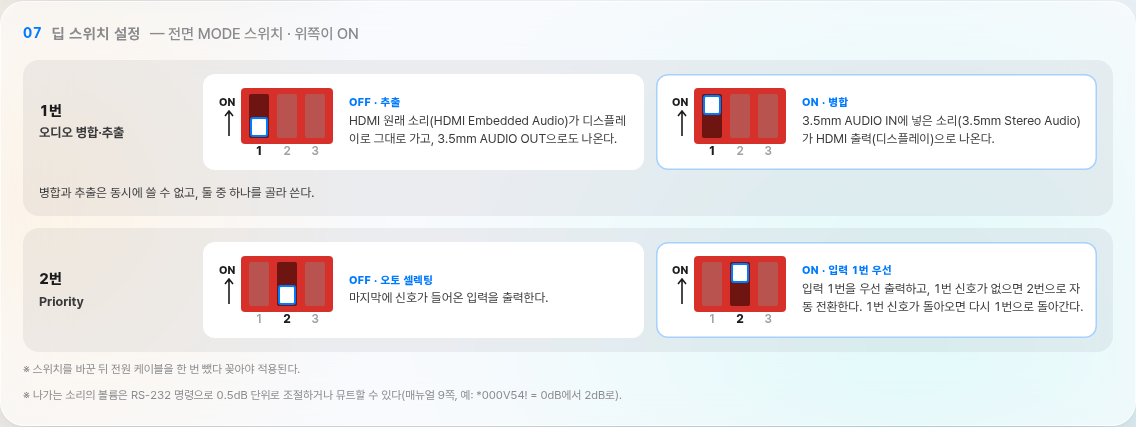
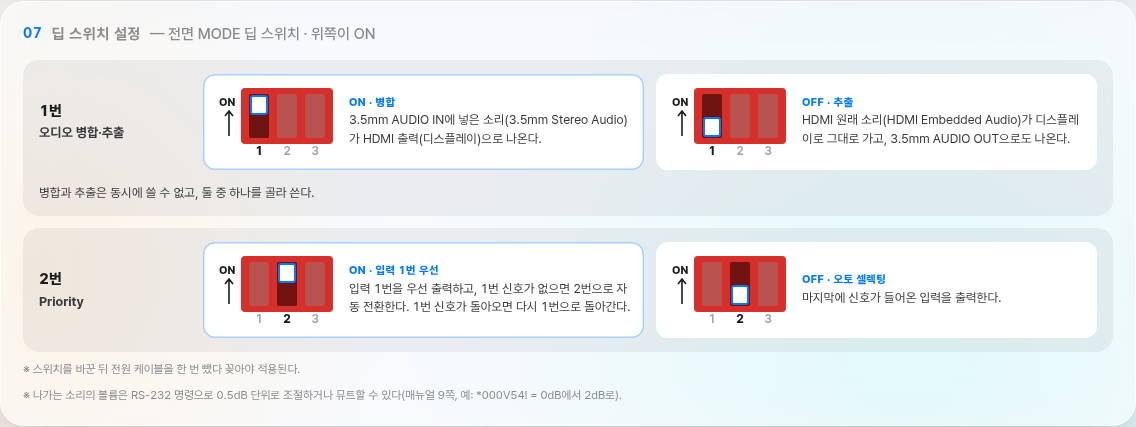
feat: HD-210U·HD-13U 05 주요 기능 압축 정리, HDS 딥 스위치 칸 ON → OFF 순서 (0.62.0)
- HD-210U 5줄·HD-13U 3줄로 기능 이름만 남김(상세는 06·07 카드)
- dipSwitch.order 추가, HDS-21U·HDS-42MU는 ON 칸을 왼쪽에
- validator·e2e(칸 순서 3건) 추가, 0.62.0 버전 표기·CHANGELOG·CLAUDE.md·QA 기록

Claude-Session: https://claude.ai/code/session_01V3dms2CC6NHWtyRSKKrJnV

diff --git a/index.html b/index.html
@@ -1,7 +1,7 @@
 <!doctype html>
 <html lang="ko"><head><meta charset="utf-8"><meta name="viewport" content="width=device-width,initial-scale=1"><title>RTCOM 매트릭스 구성기</title><meta name="description" content="RTCOM XDM, SPX, VDM 매트릭스 카드 슬롯 구성기와 알티컴 공개 제품정보"></head><body><div id="rtcom-design" aria-label="RTCOM 매트릭스 구성기">
   <link rel="stylesheet" href="src/styles.css">
-  <header class="rt-top"><a class="rt-brand-lockup" href="./"><span class="rt-brand-mark" aria-hidden="true">▦</span><span><span class="rt-brand">RT<span>COM</span> Matrix Configurator</span><span class="rt-brand-sub">XDM · SPX · VDM CARD SLOT DESIGN</span></span></a><nav class="rt-view-tabs" aria-label="화면 전환"><a data-view-tab="configurator" href="#matrix-configurator" aria-current="page">매트릭스 구성기</a><a data-view-tab="products" href="#products">알티컴 제품정보</a></nav><div class="rt-top-links"><a class="rt-portal-link" href="https://seoulav.github.io/AV-Portal/" target="_blank" rel="noopener">AV Portal에서 제품 찾기 <span aria-hidden="true">↗</span><span class="rt-visually-hidden">(새 창)</span></a><div class="rt-meta"><b>AV 시스템 설계 도구</b><br>CATALOG BASED · 0.61</div></div></header>
+  <header class="rt-top"><a class="rt-brand-lockup" href="./"><span class="rt-brand-mark" aria-hidden="true">▦</span><span><span class="rt-brand">RT<span>COM</span> Matrix Configurator</span><span class="rt-brand-sub">XDM · SPX · VDM CARD SLOT DESIGN</span></span></a><nav class="rt-view-tabs" aria-label="화면 전환"><a data-view-tab="configurator" href="#matrix-configurator" aria-current="page">매트릭스 구성기</a><a data-view-tab="products" href="#products">알티컴 제품정보</a></nav><div class="rt-top-links"><a class="rt-portal-link" href="https://seoulav.github.io/AV-Portal/" target="_blank" rel="noopener">AV Portal에서 제품 찾기 <span aria-hidden="true">↗</span><span class="rt-visually-hidden">(새 창)</span></a><div class="rt-meta"><b>AV 시스템 설계 도구</b><br>CATALOG BASED · 0.62</div></div></header>
   <section class="rt-configurator-view" aria-label="매트릭스 구성기">
     <div id="matrix-configurator" class="rt-configurator-anchor"><h1 class="rt-visually-hidden" tabindex="-1">매트릭스 구성기 — 프레임을 선택하고 실제 슬롯 위치에 입력·출력 카드를 장착해 구성합니다.</h1></div>
     <div class="rt-workspace"><div class="rt-tools"><button class="rt-button" data-tool="undo" disabled>↶ 실행 취소</button><button class="rt-button" data-tool="redo" disabled>↷ 다시 실행</button><button class="rt-button" data-tool="backup">JSON 백업</button><button class="rt-button" data-tool="import">불러오기</button><button class="rt-button" data-tool="reset">새 구성</button></div><p id="save-status" role="status" aria-live="polite">이 브라우저에 자동 저장됩니다.</p><input id="import-file" type="file" accept=".json,application/json" hidden></div><nav class="rt-nav" aria-label="구성 단계"></nav>

diff --git a/src/products.js b/src/products.js
@@ -594,12 +594,13 @@
       }
       return `<svg viewBox="0 0 ${W} ${H}" width="${W}" height="${H}" role="img" aria-label="딥 스위치 ${target}번 ${on?'ON':'OFF'}">${body}</svg>`;
     }
+    // dipSwitch.order: ["on","off"]이면 ON 칸을 왼쪽에 둔다(HDS-21U·HDS-42MU, 사용자 요청 2026-09-27 "딥스위치 값 서로 좌우 위치 변경해줘"). 없으면 OFF → ON.
     function dipSwitchSection(item){
       const ds=item.dipSwitch;
       if(!ds||!ds.rows?.length)return '';
       const idx=String(6+(item.videoModes?1:0)+(item.edidSwitch?.table?.length?1:0)+(item.audioMux?.modes?.length?1:0)).padStart(2,'0');
       const state=(label,on,st,n)=>`<figure class="rt-pg-dip-state${on?' is-on':''}">${dipGraphic(ds.count,n,on,ds.onUp!==false)}<figcaption><em>${label}${st.name?` · ${esc(st.name)}`:''}</em>${esc(st.text)}</figcaption></figure>`;
-      const rows=ds.rows.map(row=>`<div class="rt-pg-dip-row"><div class="rt-pg-dip-head"><b>${row.n}번</b><span>${esc(row.title)}</span></div><div class="rt-pg-dip-states">${state('OFF',false,row.off,row.n)}${state('ON',true,row.on,row.n)}</div>${row.note?`<p class="rt-pg-dip-note">${esc(row.note)}</p>`:''}</div>`).join('');
+      const rows=ds.rows.map(row=>`<div class="rt-pg-dip-row"><div class="rt-pg-dip-head"><b>${row.n}번</b><span>${esc(row.title)}</span></div><div class="rt-pg-dip-states">${(ds.order?.[0]==='on'?[['ON',true,row.on],['OFF',false,row.off]]:[['OFF',false,row.off],['ON',true,row.on]]).map(([label,on,st])=>state(label,on,st,row.n)).join('')}</div>${row.note?`<p class="rt-pg-dip-note">${esc(row.note)}</p>`:''}</div>`).join('');
       return `<section class="rt-pg-card rt-pg-dip" style="margin-top:18px"><h2><span class="rt-pg-idx">${idx}</span>딥 스위치 설정 <span class="rt-pg-note">— 전면 ${esc(ds.label||'딥 스위치')} · ${ds.onUp!==false?'위쪽':'아래쪽'}이 ON</span></h2><div class="rt-pg-dip-rows">${rows}</div>${ds.apply?`<p class="rt-pg-hint">※ ${esc(ds.apply)}</p>`:''}${ds.note?`<p class="rt-pg-hint">※ ${esc(ds.note)}</p>`:''}</section>`;
     }
     // ---- 오디오 설정(병합 MUX·추출 DEMUX 중 선택, HD-13U). 매뉴얼 문장을 "이럴 때·연결·소리가 나오는 곳·확인 방법"으로 풀어 두 칸으로 보여준다 ----

diff --git a/CLAUDE.md b/CLAUDE.md
@@ -50,7 +50,7 @@
 
 - 현재 화면 버전은 `index.html`의 우측 상단 표기와 `README.md`에 함께 기록합니다.
 - 원본 `main`에 기능 묶음을 병합할 때 마이너 버전을 올리고, 같은 커밋에서 `CHANGELOG.md`를 갱신합니다.
-- 구성기 단일 화면 전환은 `0.7.0`, Analog Way 방식 화면 개편은 `0.8.0`, 전송기 자동 연동은 `0.9.0`, HDMI 카드 PSE 쌍 연장은 `0.10.0`, SPX 매뉴얼 사진 슬롯은 `0.11.0`, VDM-256X 추가는 `0.12.0`, VDM 매뉴얼 후면 도면 슬롯은 `0.13.0`, 휴대폰 슬롯 겹침·뒤로가기 수정은 `0.14.0`, VDM 전면 도면은 `0.15.0`, 사진 슬롯 판넬 잘림 수정은 `0.16.0`, 장착 슬롯 번호표 숨김·구성 요약 카드 확대는 `0.17.0`, XDM 판넬 손나사 잘림 수정·VDM 전송기 연동·로고 홈 이동 확인은 `0.18.0`, 알티컴 공개 제품정보(29종) 재게시는 `0.19.0`, 제품정보 상세 표기를 에이앤미디어(antez.co.kr) 방식으로 정리한 것은 `0.20.0`, 데이터 기반 연결 다이어그램 추가는 `0.21.0`, 제품 사양 표를 구분·사양 2단으로 정리한 것은 `0.22.0`, 휴대폰 가로 스크롤(긴 출처 경로) 수정은 `0.23.0`, HD-14U·HD-18U 모델명 정정과 VDM CT102-U·FT102-U 계열 제외는 `0.24.0`, 제조사 카탈로그 원본 연결 다이어그램 적용은 `0.25.0`, 제품 사양 표 디자인(분류 색 점) 다듬기는 `0.26.0`, 새 카탈로그로 나머지 25종 재검증·XDM-CTR100 조합 다이어그램은 `0.27.0`, 연결 다이어그램 가로 스크롤 안내(그러데이션 표시)와 XDM-CTR100 케이블별 최대 전송거리(CI6522 80m) 추가는 `0.28.0`, VDM HOS4-U·HOS4S-UW 카드 설명을 스위칭 방식(일반·심리스)으로 정리하고 XDM-288을 구성기에서 삭제한 것은 `0.29.0`, XDM-CTR100 연결 다이어그램 조합 1을 매트릭스 카드 직결 배선으로 바로잡고 제조사 원본 다이어그램에 출처 캡션·표기 다름 경고를 추가하고 6개 제품과 SPX 다이어그램을 다시 잘라낸 것은 `0.30.0`, VDM 전송기 4종(CT101-U/CR101-U·CT103-U-H/CR103-U·FT101-U/FR101-U·FT103-U-H/FR103-U)에 RS-232 단자 행을 추가하고 이 4종과 CT104-U/CR104-U를 46쪽판과 재대조하고 27종 전체의 카탈로그 쪽 표기를 46쪽판 기준으로 통일한 것은 `0.31.0`, `docs/audit/PRODUCT_DIAGRAM_REVIEW_2026-09-27.md` §6 판단표대로 13개 제품의 검토 필요 항목을 정리해 REVIEW REQUIRED 배지를 없앤 것은 `0.32.0`, 제품정보 화면을 사용자 LED 구성기 계승 글래스 디자인으로 개편한 것(`docs/handoff/PRODUCT_GLASS_REDESIGN_SPEC.md` 6-A: 기반·HD-210U·XDM·VDM·SPX)은 `0.33.0`, 나머지 23종(분배기·일체형·전송기·케이블)에 lead·subtitle·portMap을 채우고 분배기·일체형 신호 흐름을 승인 시안 방식으로 바꾸고 QMS 화면 구성 모드(videoModes)를 추가한 것(6-B)은 `0.34.0`, HD-13U 상세에 전면 EDID 로터리 스위치 위치 표시와 EDID 코드표(edidSwitch, 사용자 제공 매뉴얼 근거)를 추가한 것은 `0.35.0`, HD-104U·HD-108U 모델명 표기를 0.24.0 정정 이전으로 되돌리고(사용자 확인 2026-09-27: 카탈로그 표기는 HD-104U·HD-108U이며 실크만 14U·18U로 변경 예정) HD-210U 전면 설정 스위치(딥 스위치·EDID 로터리) 추가와 신호 흐름 매트릭스 판정 복원을 함께 묶은 것은 `0.36.0`, 매트릭스 구성기 화면을 Analog Way 구조 + LED 글래스 스킨으로 개편하고 블랭크 커버(`placements`의 예약값 `"BLANK"`)로 슬롯 구성을 완성하는 기능을 추가한 것(`docs/handoff/CONFIGURATOR_AW_GLASS_SPEC.md`, 사용자 결정 2026-09-27)은 `0.37.0`, 0.37.0에서 시안과 다르게 남겨 둔 04 전송기 화면을 사용자 검토 후 좌우 분할 구조(01·02와 같은 틀)로 다시 지은 것(`docs/implementation/CONFIGURATOR_AW_GLASS.md` "04 전송기(편차 — 0.38.0에서 해소)")은 `0.38.0`, 제품 상세 "01 한눈에 보기" 위에 큰 사진 띠와 누르면 확대되는 돋보기(라이트박스)를 추가하고 화면에 보이는 제품 사양·주요 기능의 "up to" 표기를 "최대"로 통일하고 제품정보 "확인 사항" 118건을 2건으로 정리(HD-210U 크기 355mm 정정, `docs/audit/PRODUCT_ISSUES_ARCHIVE_2026-09-27.md`)한 것은 `0.39.0`, HD-13U "05 주요 기능"에 오디오 병합(믹스)·추출(디먹스) 동시 사용 안내(매뉴얼 7쪽 근거)를 추가한 것은 `0.40.0`, 분배기(HD-13U·HD-104U·HD-108U·HD-210U) EDID 로터리 코드표에서 자주 쓰는 1·7번을 강조하고 "02 신호 흐름"에 오디오 병합·추출(AUDIO OUT·"추출" 표시)을 추가한 것은 `0.41.0`, 사진 없이 입출력 표 카드로만 보이던 7종(HD-D102U·XDM-CTR100·전송기 5종)의 단자 지도를 HD-13U처럼 실제 제품 사진 기준으로 바꾸고 `portMap`이 송신기·수신기 사진 여러 장을 받게 한 것은 `0.42.0`, HDS-21U·HDS-42MU에 EDID 로터리(edidSwitch)를 추가하고 오디오 병합 설명을 "HDMI OUTPUT에 실리는 오디오" 기준으로 정정하고 분배기·선택기 필터를 HDMI 출력 개수 순으로 정렬하고 XDM-CTR100 "02 신호 흐름" 케이블 최대 전송거리 표기를 다이어그램 하단 한쪽으로 모은 것은 `0.43.0`, 분배기·선택기 필터 정렬을 분배기(Splitter)가 먼저 나오고 셀렉터(Switcher)가 나중에 나오도록(같은 종류 안에서는 HDMI 출력 개수 순) 바꾼 것은 `0.44.0`, 사용자 제공 매뉴얼 3권으로 벽부형 XDM-CT103·CT103-U-H/CR103-U·FT103-U-H/FR103-U의 단자 지도·사양·EDID 표를 보완하고 단자 지도에 세로 괄호·표시 폭·안내 줄을 추가한 것은 `0.45.0`, XDM-CTR100 PSE 제품 안내서와 XDM-CTR100 매뉴얼 Ver.1.4로 CTR100 단자 역할(HDMI IN·OUT, 5핀 오디오 출력, 상태 LED)·딥 스위치 설정·PSE 크기·전원을 보완한 것은 `0.46.0`, 옛 PR #22에만 있던 사용자 결정(XDM-CTR100과 XDM-CTR100 PSE를 별도 제품으로 분리해 28종, QMS-88UX 쿼드 뷰 출력 9·10번 사용법, 모델명 줄바꿈 방지)을 현재 main 기준으로 다시 옮기고 HD-13U 오디오 병합·추출을 선택 방식으로 정정해 07 오디오 설정 카드를 추가하고 모든 제품의 단자 지도 번호를 HDMI 입력 → 출력 → 오디오 → … → 전원(마지막) 순으로 통일한 것은 `0.47.0`, QMS-88UX 출력 9·10번 멀티뷰의 12가지 레이아웃·입력 그룹·출력 옵션을 사용자 제공 매뉴얼 20~23쪽 근거로 "주요 기능"에 적은 것은 `0.48.0`, HDS-21U·HDS-42MU 오디오 병합·추출을 딥 스위치 1번 선택 방식으로 정정하고 07 오디오 설정 카드를 추가하고 사용자 제공 매뉴얼 Ver.1.0으로 Priority·분배 기능 딥 스위치를 보완하고 제품 사진 팝업을 사용자 LED 계산기 "05 프로세서" 방식(사진 탭·원형 돋보기)으로 바꾼 것은 `0.49.0`, QMS-88UX "02 신호 흐름"에서 멀티뷰 출력 9·10번을 매트릭스 출력과 분리된 별도 갈래(패널·캡션)로 다시 그리고 "05 주요 기능" 멀티뷰 항목을 요약하고 오디오 출력 2개(QD1·QD2)가 선택 가능한 출력임을 반영한 것은 `0.50.0`, QMS-88UX "04 제품 사양"의 조건 칸(부설)을 모두 비우고 LAN(Telnet & Web Browser) 표기를 사양·기능·개요·단자 지도에서 모두 뺀 것은 `0.51.0`, HDS-42MU 크기를 사용자 결정에 따라 매뉴얼 값 232×65×30mm로 바꾸고 제품 상세의 "자료 출처·검토 기록"을 "제조사 자료"로 이름을 바꿔 화면의 출처 표시를 뺀 것은 `0.52.0`, QMS-88UX 오디오 QD1·QD2 설명 정리·"02 신호 흐름" 오디오 추출 점선과 멀티뷰 8입력분할 표현 정리·입출력 단자 표 정렬 통일(TX→구분 없음→RX, 영상→오디오→전송→제어, 입력→출력→양방향)·"제조사 자료"에서 표기 다름·참고 사항도 추가로 뺀 것과 조건 칸의 출처 문구를 지우고 "05 주요 기능"을 한 줄 요약으로 줄인 것(상세는 06·07 카드·사양·단자 지도로 이동)은 `0.53.0`, XDM-CTR100·CTR100 PSE "04 제품 사양"의 딥 스위치 행을 다시 삭제(딥 스위치는 05 주요 기능에서만 안내)하고 전 제품 "05 주요 기능"을 추가로 압축하고 매트릭스 COS/CIS/FIS/FOS 카드와 짝인 전송기 3종(XDM-CTR100·CTR100 PSE·FT101/FR101)에 RS-232+ 패스스루(AMX 등 통합 제어 신호를 매트릭스·전송기 너머로 전달) 안내를 추가하고 "02 신호 흐름"의 케이블 최대 전송거리 표기를 범례 "출력" 항목 오른쪽으로 옮긴 것은 `0.54.0`, 구성기 확인 창을 사이트 글래스 스타일 대화상자로 바꾸고 카드 팝업에 수량 채우기와 같은 방향 슬롯 이동(끌어 옮기기·팝업 이동)을 추가하고 XDM 세로 슬롯 카드를 180도 돌리고 2U 이상만 정면·후면 버튼(그보다 작으면 정면 사진과 포트 연결면을 함께 표시)으로 하고 구성기 작업 단계 표기를 한글로 바꾸고 Delete 키 카드 빼기와 XDM RS-232+(CIS·COS·FIS·FOS 카드와 짝 전송기) 표기를 더한 것은 `0.55.0`, 전 제품 "05 주요 기능" 카탈로그 어투 통일("~ 지원")·"01 한눈에 보기" 위 사진 띠 삭제·"02 신호 흐름"과 "03 단자 지도" 순서 교체 및 영문 표기(Signal Flow·Port Map)·화면 구성 모드 등 06 카드를 05 옆으로 배치·QMS-88UX 06 화면 구성 모드 레이아웃 12종 클릭 미리보기 추가·HDS-21U·HDS-42MU 단자 지도를 정면·후면 선택 버튼 없이 위아래 합성 사진 한 장(번호 1~7, EDID 로터리 6번·전원 7번)으로 바꾼 것은 `0.56.0`, 05 옆으로 옮긴 06 카드가 휴대폰에서 01보다 먼저 뜨던 순서 버그를 고치고(rt-pg-col-mobile-6 클래스 추가) 15개 제품 "05 주요 기능"의 "~할 수 있다." 표현 24곳을 명사형으로 정리한 것은 `0.57.0`, HDS-21U·HDS-42MU 단자 지도에 MODE 딥 스위치 번호(7번)를 추가하고 07 오디오 설정 카드를 딥 스위치 그림(번호별 OFF·ON) 카드인 07 딥 스위치 설정으로 바꾸고(1번 오디오 병합·추출, 2번 Priority, 42MU만 3번 분배) 04 제품 사양의 딥 스위치 행과 05 주요 기능의 긴 설명을 이 카드로 옮기고 매트릭스 제품(QMS-44UX·QMS-88UX·HDS-42MU) "03 Signal Flow"를 입력이 한 점으로 모이는 모양 대신 크로스포인트(출력마다 입력 선택 예시)로 다시 그리고 HDS-42MU 정면 사진의 잘못 인쇄된 실크(MODE·EDID)를 사진 안에서 서로 바꾼 것은 `0.58.0`, EDID 로터리 태그 잘림·06 EDID 카드 배치·긴 코드표 좌우 분할을 고치고 EDID 설정 카드에 기본값·자주 쓰는 코드를 파란 16단 로터리 그림(화살표가 코드를 가리킴)으로 보여주고 HDS-21U·HDS-42MU(3·9번)·FT103-U-H/FR103-U(3·6번)에 자주 쓰는 코드 강조를 더하고 EDID 코드표 세로 크기를 줄인 것은 `0.59.0`, 04 제품 사양 표 줄 간격을 약 15% 줄이고 03 Signal Flow에서 AUDIO OUT "추출" 표시가 잘리던 그림 너비 계산을 고친 것은 `0.60.0`, HD-13U 07 오디오 설정을 06 EDID 다음 전체 폭으로 옮겨 잘림·번호 뒤집힘을 고치고 EDID 대표 설정과 같은 칸 4개(MODE 로터리 0번 → SET 누름 → OUT 1 LED 깜빡임·깜빡이지 않음)를 넣고 HD-210U에 매뉴얼 Ver.1.2 근거 07 딥 스위치 설정 카드(1번 오디오 병합, 2번 DDC)를 추가한 것은 `0.61.0`으로 기록했습니다. 다음 기능 묶음은 `0.62.0`을 목표로 하며, 실제 병합 전에는 검증된 canonical main commit을 확인합니다.
+- 구성기 단일 화면 전환은 `0.7.0`, Analog Way 방식 화면 개편은 `0.8.0`, 전송기 자동 연동은 `0.9.0`, HDMI 카드 PSE 쌍 연장은 `0.10.0`, SPX 매뉴얼 사진 슬롯은 `0.11.0`, VDM-256X 추가는 `0.12.0`, VDM 매뉴얼 후면 도면 슬롯은 `0.13.0`, 휴대폰 슬롯 겹침·뒤로가기 수정은 `0.14.0`, VDM 전면 도면은 `0.15.0`, 사진 슬롯 판넬 잘림 수정은 `0.16.0`, 장착 슬롯 번호표 숨김·구성 요약 카드 확대는 `0.17.0`, XDM 판넬 손나사 잘림 수정·VDM 전송기 연동·로고 홈 이동 확인은 `0.18.0`, 알티컴 공개 제품정보(29종) 재게시는 `0.19.0`, 제품정보 상세 표기를 에이앤미디어(antez.co.kr) 방식으로 정리한 것은 `0.20.0`, 데이터 기반 연결 다이어그램 추가는 `0.21.0`, 제품 사양 표를 구분·사양 2단으로 정리한 것은 `0.22.0`, 휴대폰 가로 스크롤(긴 출처 경로) 수정은 `0.23.0`, HD-14U·HD-18U 모델명 정정과 VDM CT102-U·FT102-U 계열 제외는 `0.24.0`, 제조사 카탈로그 원본 연결 다이어그램 적용은 `0.25.0`, 제품 사양 표 디자인(분류 색 점) 다듬기는 `0.26.0`, 새 카탈로그로 나머지 25종 재검증·XDM-CTR100 조합 다이어그램은 `0.27.0`, 연결 다이어그램 가로 스크롤 안내(그러데이션 표시)와 XDM-CTR100 케이블별 최대 전송거리(CI6522 80m) 추가는 `0.28.0`, VDM HOS4-U·HOS4S-UW 카드 설명을 스위칭 방식(일반·심리스)으로 정리하고 XDM-288을 구성기에서 삭제한 것은 `0.29.0`, XDM-CTR100 연결 다이어그램 조합 1을 매트릭스 카드 직결 배선으로 바로잡고 제조사 원본 다이어그램에 출처 캡션·표기 다름 경고를 추가하고 6개 제품과 SPX 다이어그램을 다시 잘라낸 것은 `0.30.0`, VDM 전송기 4종(CT101-U/CR101-U·CT103-U-H/CR103-U·FT101-U/FR101-U·FT103-U-H/FR103-U)에 RS-232 단자 행을 추가하고 이 4종과 CT104-U/CR104-U를 46쪽판과 재대조하고 27종 전체의 카탈로그 쪽 표기를 46쪽판 기준으로 통일한 것은 `0.31.0`, `docs/audit/PRODUCT_DIAGRAM_REVIEW_2026-09-27.md` §6 판단표대로 13개 제품의 검토 필요 항목을 정리해 REVIEW REQUIRED 배지를 없앤 것은 `0.32.0`, 제품정보 화면을 사용자 LED 구성기 계승 글래스 디자인으로 개편한 것(`docs/handoff/PRODUCT_GLASS_REDESIGN_SPEC.md` 6-A: 기반·HD-210U·XDM·VDM·SPX)은 `0.33.0`, 나머지 23종(분배기·일체형·전송기·케이블)에 lead·subtitle·portMap을 채우고 분배기·일체형 신호 흐름을 승인 시안 방식으로 바꾸고 QMS 화면 구성 모드(videoModes)를 추가한 것(6-B)은 `0.34.0`, HD-13U 상세에 전면 EDID 로터리 스위치 위치 표시와 EDID 코드표(edidSwitch, 사용자 제공 매뉴얼 근거)를 추가한 것은 `0.35.0`, HD-104U·HD-108U 모델명 표기를 0.24.0 정정 이전으로 되돌리고(사용자 확인 2026-09-27: 카탈로그 표기는 HD-104U·HD-108U이며 실크만 14U·18U로 변경 예정) HD-210U 전면 설정 스위치(딥 스위치·EDID 로터리) 추가와 신호 흐름 매트릭스 판정 복원을 함께 묶은 것은 `0.36.0`, 매트릭스 구성기 화면을 Analog Way 구조 + LED 글래스 스킨으로 개편하고 블랭크 커버(`placements`의 예약값 `"BLANK"`)로 슬롯 구성을 완성하는 기능을 추가한 것(`docs/handoff/CONFIGURATOR_AW_GLASS_SPEC.md`, 사용자 결정 2026-09-27)은 `0.37.0`, 0.37.0에서 시안과 다르게 남겨 둔 04 전송기 화면을 사용자 검토 후 좌우 분할 구조(01·02와 같은 틀)로 다시 지은 것(`docs/implementation/CONFIGURATOR_AW_GLASS.md` "04 전송기(편차 — 0.38.0에서 해소)")은 `0.38.0`, 제품 상세 "01 한눈에 보기" 위에 큰 사진 띠와 누르면 확대되는 돋보기(라이트박스)를 추가하고 화면에 보이는 제품 사양·주요 기능의 "up to" 표기를 "최대"로 통일하고 제품정보 "확인 사항" 118건을 2건으로 정리(HD-210U 크기 355mm 정정, `docs/audit/PRODUCT_ISSUES_ARCHIVE_2026-09-27.md`)한 것은 `0.39.0`, HD-13U "05 주요 기능"에 오디오 병합(믹스)·추출(디먹스) 동시 사용 안내(매뉴얼 7쪽 근거)를 추가한 것은 `0.40.0`, 분배기(HD-13U·HD-104U·HD-108U·HD-210U) EDID 로터리 코드표에서 자주 쓰는 1·7번을 강조하고 "02 신호 흐름"에 오디오 병합·추출(AUDIO OUT·"추출" 표시)을 추가한 것은 `0.41.0`, 사진 없이 입출력 표 카드로만 보이던 7종(HD-D102U·XDM-CTR100·전송기 5종)의 단자 지도를 HD-13U처럼 실제 제품 사진 기준으로 바꾸고 `portMap`이 송신기·수신기 사진 여러 장을 받게 한 것은 `0.42.0`, HDS-21U·HDS-42MU에 EDID 로터리(edidSwitch)를 추가하고 오디오 병합 설명을 "HDMI OUTPUT에 실리는 오디오" 기준으로 정정하고 분배기·선택기 필터를 HDMI 출력 개수 순으로 정렬하고 XDM-CTR100 "02 신호 흐름" 케이블 최대 전송거리 표기를 다이어그램 하단 한쪽으로 모은 것은 `0.43.0`, 분배기·선택기 필터 정렬을 분배기(Splitter)가 먼저 나오고 셀렉터(Switcher)가 나중에 나오도록(같은 종류 안에서는 HDMI 출력 개수 순) 바꾼 것은 `0.44.0`, 사용자 제공 매뉴얼 3권으로 벽부형 XDM-CT103·CT103-U-H/CR103-U·FT103-U-H/FR103-U의 단자 지도·사양·EDID 표를 보완하고 단자 지도에 세로 괄호·표시 폭·안내 줄을 추가한 것은 `0.45.0`, XDM-CTR100 PSE 제품 안내서와 XDM-CTR100 매뉴얼 Ver.1.4로 CTR100 단자 역할(HDMI IN·OUT, 5핀 오디오 출력, 상태 LED)·딥 스위치 설정·PSE 크기·전원을 보완한 것은 `0.46.0`, 옛 PR #22에만 있던 사용자 결정(XDM-CTR100과 XDM-CTR100 PSE를 별도 제품으로 분리해 28종, QMS-88UX 쿼드 뷰 출력 9·10번 사용법, 모델명 줄바꿈 방지)을 현재 main 기준으로 다시 옮기고 HD-13U 오디오 병합·추출을 선택 방식으로 정정해 07 오디오 설정 카드를 추가하고 모든 제품의 단자 지도 번호를 HDMI 입력 → 출력 → 오디오 → … → 전원(마지막) 순으로 통일한 것은 `0.47.0`, QMS-88UX 출력 9·10번 멀티뷰의 12가지 레이아웃·입력 그룹·출력 옵션을 사용자 제공 매뉴얼 20~23쪽 근거로 "주요 기능"에 적은 것은 `0.48.0`, HDS-21U·HDS-42MU 오디오 병합·추출을 딥 스위치 1번 선택 방식으로 정정하고 07 오디오 설정 카드를 추가하고 사용자 제공 매뉴얼 Ver.1.0으로 Priority·분배 기능 딥 스위치를 보완하고 제품 사진 팝업을 사용자 LED 계산기 "05 프로세서" 방식(사진 탭·원형 돋보기)으로 바꾼 것은 `0.49.0`, QMS-88UX "02 신호 흐름"에서 멀티뷰 출력 9·10번을 매트릭스 출력과 분리된 별도 갈래(패널·캡션)로 다시 그리고 "05 주요 기능" 멀티뷰 항목을 요약하고 오디오 출력 2개(QD1·QD2)가 선택 가능한 출력임을 반영한 것은 `0.50.0`, QMS-88UX "04 제품 사양"의 조건 칸(부설)을 모두 비우고 LAN(Telnet & Web Browser) 표기를 사양·기능·개요·단자 지도에서 모두 뺀 것은 `0.51.0`, HDS-42MU 크기를 사용자 결정에 따라 매뉴얼 값 232×65×30mm로 바꾸고 제품 상세의 "자료 출처·검토 기록"을 "제조사 자료"로 이름을 바꿔 화면의 출처 표시를 뺀 것은 `0.52.0`, QMS-88UX 오디오 QD1·QD2 설명 정리·"02 신호 흐름" 오디오 추출 점선과 멀티뷰 8입력분할 표현 정리·입출력 단자 표 정렬 통일(TX→구분 없음→RX, 영상→오디오→전송→제어, 입력→출력→양방향)·"제조사 자료"에서 표기 다름·참고 사항도 추가로 뺀 것과 조건 칸의 출처 문구를 지우고 "05 주요 기능"을 한 줄 요약으로 줄인 것(상세는 06·07 카드·사양·단자 지도로 이동)은 `0.53.0`, XDM-CTR100·CTR100 PSE "04 제품 사양"의 딥 스위치 행을 다시 삭제(딥 스위치는 05 주요 기능에서만 안내)하고 전 제품 "05 주요 기능"을 추가로 압축하고 매트릭스 COS/CIS/FIS/FOS 카드와 짝인 전송기 3종(XDM-CTR100·CTR100 PSE·FT101/FR101)에 RS-232+ 패스스루(AMX 등 통합 제어 신호를 매트릭스·전송기 너머로 전달) 안내를 추가하고 "02 신호 흐름"의 케이블 최대 전송거리 표기를 범례 "출력" 항목 오른쪽으로 옮긴 것은 `0.54.0`, 구성기 확인 창을 사이트 글래스 스타일 대화상자로 바꾸고 카드 팝업에 수량 채우기와 같은 방향 슬롯 이동(끌어 옮기기·팝업 이동)을 추가하고 XDM 세로 슬롯 카드를 180도 돌리고 2U 이상만 정면·후면 버튼(그보다 작으면 정면 사진과 포트 연결면을 함께 표시)으로 하고 구성기 작업 단계 표기를 한글로 바꾸고 Delete 키 카드 빼기와 XDM RS-232+(CIS·COS·FIS·FOS 카드와 짝 전송기) 표기를 더한 것은 `0.55.0`, 전 제품 "05 주요 기능" 카탈로그 어투 통일("~ 지원")·"01 한눈에 보기" 위 사진 띠 삭제·"02 신호 흐름"과 "03 단자 지도" 순서 교체 및 영문 표기(Signal Flow·Port Map)·화면 구성 모드 등 06 카드를 05 옆으로 배치·QMS-88UX 06 화면 구성 모드 레이아웃 12종 클릭 미리보기 추가·HDS-21U·HDS-42MU 단자 지도를 정면·후면 선택 버튼 없이 위아래 합성 사진 한 장(번호 1~7, EDID 로터리 6번·전원 7번)으로 바꾼 것은 `0.56.0`, 05 옆으로 옮긴 06 카드가 휴대폰에서 01보다 먼저 뜨던 순서 버그를 고치고(rt-pg-col-mobile-6 클래스 추가) 15개 제품 "05 주요 기능"의 "~할 수 있다." 표현 24곳을 명사형으로 정리한 것은 `0.57.0`, HDS-21U·HDS-42MU 단자 지도에 MODE 딥 스위치 번호(7번)를 추가하고 07 오디오 설정 카드를 딥 스위치 그림(번호별 OFF·ON) 카드인 07 딥 스위치 설정으로 바꾸고(1번 오디오 병합·추출, 2번 Priority, 42MU만 3번 분배) 04 제품 사양의 딥 스위치 행과 05 주요 기능의 긴 설명을 이 카드로 옮기고 매트릭스 제품(QMS-44UX·QMS-88UX·HDS-42MU) "03 Signal Flow"를 입력이 한 점으로 모이는 모양 대신 크로스포인트(출력마다 입력 선택 예시)로 다시 그리고 HDS-42MU 정면 사진의 잘못 인쇄된 실크(MODE·EDID)를 사진 안에서 서로 바꾼 것은 `0.58.0`, EDID 로터리 태그 잘림·06 EDID 카드 배치·긴 코드표 좌우 분할을 고치고 EDID 설정 카드에 기본값·자주 쓰는 코드를 파란 16단 로터리 그림(화살표가 코드를 가리킴)으로 보여주고 HDS-21U·HDS-42MU(3·9번)·FT103-U-H/FR103-U(3·6번)에 자주 쓰는 코드 강조를 더하고 EDID 코드표 세로 크기를 줄인 것은 `0.59.0`, 04 제품 사양 표 줄 간격을 약 15% 줄이고 03 Signal Flow에서 AUDIO OUT "추출" 표시가 잘리던 그림 너비 계산을 고친 것은 `0.60.0`, HD-13U 07 오디오 설정을 06 EDID 다음 전체 폭으로 옮겨 잘림·번호 뒤집힘을 고치고 EDID 대표 설정과 같은 칸 4개(MODE 로터리 0번 → SET 누름 → OUT 1 LED 깜빡임·깜빡이지 않음)를 넣고 HD-210U에 매뉴얼 Ver.1.2 근거 07 딥 스위치 설정 카드(1번 오디오 병합, 2번 DDC)를 추가한 것은 `0.61.0`, 딥 스위치 카드가 있는 HD-210U·HDS-21U·HDS-42MU의 05 주요 기능에서 스위치 번호 참조를 지우고 HD-210U(5줄)·HD-13U(3줄) 05 주요 기능을 기능 이름만 남겨 정리하고 HDS-21U·HDS-42MU 딥 스위치 칸을 ON → OFF 순서로 바꾼 것은 `0.62.0`으로 기록했습니다. 다음 기능 묶음은 `0.63.0`을 목표로 하며, 실제 병합 전에는 검증된 canonical main commit을 확인합니다.
 - 모든 작업은 구현 문서, QA 문서 또는 감사 문서에 근거와 결과를 남깁니다.
 
 ## Git 명령 정책

diff --git a/docs/qa/HD210U_FEATURES_CLEANUP_QA_2026-09-27.md b/docs/qa/HD210U_FEATURES_CLEANUP_QA_2026-09-27.md
@@ -1,0 +1,46 @@
+# HD-210U·HD-13U 05 주요 기능 정리 QA (0.62.0, 2026-09-27)
+
+## 1. 요청
+
+- "210U 05 주요기능(HDMI 2.0… / EDID 마인더… / 오디오 병합 지원(딥 스위치 1번…) / DDC…(딥 스위치 2번) / 전면 파란 로터리로 EDID를 고른다: … / 두 입력 중 한 곳에만 신호가 있으면 …) 이 부분 정리해줘"(공개 0.61 화면 기준)
+
+## 2. 전후
+
+| 0.61 공개 화면 | PR #42(다른 세션, 미배포) | 0.62 |
+|---|---|---|
+| HDMI 2.0, HDCP 2.2 지원 | 같음 | HDMI 2.0, HDCP 2.2 지원 |
+| EDID 마인더 기능: 외부 연결된 디스플레이 EDID 저장, 내부 저장된 EDID 사용 | 같음 | 오디오 병합 지원(3.5mm Stereo Audio를 모든 출력에 믹스) |
+| 오디오 병합 지원(딥 스위치 1번, 07 딥 스위치 설정 참고) | 삭제 | EDID 마인더 기능 지원(외부 EDID 저장, 내장 EDID 선택) |
+| DDC Buffer·Level Shifter 선택 지원(딥 스위치 2번) | 삭제 | DDC Buffer·Level Shifter 선택 지원 |
+| 전면 파란 로터리로 EDID를 고른다: F=…, 0=…, 1~B=… | 삭제 | (06 EDID 설정 카드에만) |
+| 두 입력 중 한 곳에만 신호가 있으면 신호가 있는 채널을 자동으로 선택한다. | 두 입력 중 신호 있는 쪽 자동 선택 | 입력 자동 선택 지원(두 입력 중 신호가 있는 쪽) |
+
+- 원칙: 05는 기능 이름만 카탈로그 어투("~ 지원")로 적고, 스위치 번호·로터리 코드 같은 조작 방법은 06 EDID 설정·07 딥 스위치 설정 카드에만 둡니다(0.53·0.56 결정과 같음).
+- PR #42가 지운 오디오 병합·DDC 선택은 제품의 주요 기능이므로 스위치 번호 없이 다시 넣었습니다. 근거: HD-210U 매뉴얼 Ver.1.2 6~7쪽(`M-HD210`), 카탈로그(`C`).
+
+## 2-1. HD-13U(추가 요청 "13U도 동일하게 압축 요약해줘")
+
+| 전 | 후 |
+|---|---|
+| HDMI 2.0, HDCP 2.2 지원 | HDMI 2.0, HDCP 2.2 지원 |
+| EDID 마인더 기능: 외부 연결된 디스플레이 EDID 저장, 내부 저장된 EDID 사용 | 오디오 병합·추출 선택 지원(둘 중 하나만 사용) |
+| 오디오는 로터리 '0'+SET 버튼으로 병합(Stereo Audio, 3.5mm 소리를 OUTPUT 1에 믹스)과 추출(HDMI Audio, 입력 소리를 AUDIO OUT으로)을 번갈아 고른다. 자세한 표는 '07 오디오 설정' 참고. | EDID 마인더 기능 지원(외부 EDID 저장, 내장 EDID 선택) |
+
+- 조작 방법(로터리 '0' + SET, OUT 1 LED 확인)과 병합·추출이 나가는 곳은 07 오디오 설정 카드에만 둡니다. "둘 중 하나만 사용"은 사용자 확인(`U`) 근거입니다.
+
+## 2-2. HDS-21U·HDS-42MU 딥 스위치 칸 좌우 바꿈(추가 요청 "21U, 42MU 딥스위치 값 서로 좌우 위치 변경해줘")
+
+- 07 딥 스위치 설정의 번호별 두 칸을 ON(왼쪽) → OFF(오른쪽)로 바꿨습니다. `dipSwitch.order`에 `["on","off"]`를 두 제품에만 넣었고, 값이 없으면 OFF → ON(HD-210U)입니다. validator가 `order` 값을 검사합니다.
+- 화면: `docs/qa/hds-dip-switch-screens/dip-hds-42mu-desk.png`(갱신)
+
+## 3. 검증
+
+- `node --test tests/*.test.cjs`: 39/39 통과
+- `node scripts/build-product-index.cjs --check`: 28개 통과
+- `node scripts/package-site.cjs`: 통과
+- `node scripts/e2e-smoke.cjs`: 116/116 통과(딥 스위치 칸 순서 확인 3건 추가)
+- `git diff --check`: 통과
+
+## 4. 되돌리기
+
+해당 커밋을 `git revert`합니다.

diff --git a/CHANGELOG.md b/CHANGELOG.md
@@ -13,6 +13,14 @@
 - **0.46.0 배포 기록**: `docs/qa/DEPLOYMENT_0.46_2026-09-27.md`(브랜치 배포가 끝난 뒤 배포 작업 실행, 공개 파일 187/187 일치)
 - **0.45.0 배포 기록**: `docs/qa/DEPLOYMENT_0.45_2026-09-27.md`. GitHub 기본 브랜치 배포가 저장소 전체로 사이트를 덮어쓴 문제를 찾아, 배포 작업을 다시 실행해 되돌렸습니다(공개 파일 186/186 일치).
 
+## 0.62.0
+
+- **HD-210U 05 주요 기능 정리**(사용자 요청 "210U 05 주요기능 … 이 부분 정리해줘"): 딥 스위치 번호·로터리 코드 설명 같은 상세는 06 EDID 설정·07 딥 스위치 설정 카드에 두고, 05에는 기능 이름만 카탈로그 어투("~ 지원")로 5줄 남겼습니다. HDMI 2.0·HDCP 2.2 지원 / 오디오 병합 지원(3.5mm Stereo Audio를 모든 출력에 믹스) / EDID 마인더 기능 지원(외부 EDID 저장, 내장 EDID 선택) / DDC Buffer·Level Shifter 선택 지원 / 입력 자동 선택 지원(두 입력 중 신호가 있는 쪽). 다른 세션이 앞서 지운 오디오 병합·DDC 기능 이름은 번호 없이 다시 넣었습니다.
+- **HD-13U 05 주요 기능 정리**(사용자 요청 "13U도 동일하게 압축 요약해줘"): 로터리 '0'+SET 조작과 병합·추출 설명이 들어 있던 긴 문장을 "오디오 병합·추출 선택 지원(둘 중 하나만 사용)"으로 줄이고(조작 방법은 07 오디오 설정 카드), EDID 마인더 문장을 HD-210U와 같은 "EDID 마인더 기능 지원(외부 EDID 저장, 내장 EDID 선택)"으로 맞췄습니다(3줄).
+- **HDS-21U·HDS-42MU 딥 스위치 칸 좌우 바꿈**(사용자 요청 "21U, 42MU 딥스위치 값 서로 좌우 위치 변경해줘"): 07 딥 스위치 설정의 번호별 두 칸을 OFF → ON에서 ON → OFF로 바꿨습니다(`dipSwitch.order: ["on","off"]`, validator 규칙 추가). HD-210U는 OFF → ON 그대로입니다.
+- 함께 묶은 다른 세션 작업(PR #42, 0.61.0 배포 뒤 병합): 딥 스위치 카드가 있는 HDS-21U·HDS-42MU·HD-210U의 05 주요 기능에서 "(딥 스위치 N번)" 참조 삭제.
+- QA: `docs/qa/HD210U_FEATURES_CLEANUP_QA_2026-09-27.md`. 되돌리기: 해당 커밋을 `git revert`합니다.
+
 ## 0.61.0
 
 - **HD-13U 07 오디오 설정 잘림 수정**(사용자 지적 "13U 07 오디오가 잘린다"): 오디오 설정 카드(병합·추출 두 칸)가 05 옆 좁은 칸(약 360px)에 들어가 추출 칸 오른쪽이 잘리고, 06 EDID 설정보다 먼저 보여 번호가 07 → 06 순서로 뒤집혔습니다. EDID 설정이 있는 제품은 06 EDID → 07 오디오 순서로 둘 다 전체 폭 아래에 두도록 바꿨습니다(현재 해당 제품은 HD-13U뿐). HD-13U는 병합·추출을 모두 지원하되 하나만 골라 쓰는 방식 그대로입니다.

diff --git a/README.md b/README.md
@@ -1,6 +1,6 @@
 # RTCOM Matrix Configurator
 
-**현재 버전: 0.61** · XDM·SPX·VDM 매트릭스의 프레임과 카드 슬롯을 구성하는 도구(Analog Way 구조 + LED 글래스 스킨 + 블랭크 커버, 04 전송기도 좌우 분할)와 알티컴 공개 제품정보(28종, 글래스 디자인·연결 다이어그램)를 제공합니다.
+**현재 버전: 0.62** · XDM·SPX·VDM 매트릭스의 프레임과 카드 슬롯을 구성하는 도구(Analog Way 구조 + LED 글래스 스킨 + 블랭크 커버, 04 전송기도 좌우 분할)와 알티컴 공개 제품정보(28종, 글래스 디자인·연결 다이어그램)를 제공합니다.
 
 프레임을 고르고 실제 슬롯 위치에 입력·출력 카드를 장착한 뒤, 전송기와 BOM을 검토하고 JSON·CSV·인쇄 보고서로 내보냅니다. 0.19부터 알티컴 브로셔 수준 제품정보의 원본은 이 저장소(`data/products/`)이며, 머리글의 "알티컴 제품정보" 탭에서 봅니다. 비공개 AV Portal은 이 공개 데이터를 읽기만 합니다([인계 문서](docs/handoff/AV_PORTAL_RTCOM_PRODUCT_DATA.md)). 실제 슬롯·설치 허용표와 전원·케이블 조건은 확정 전이며, 모든 내보내기는 `UNVERIFIED_DRAFT`로 표시합니다.
 
